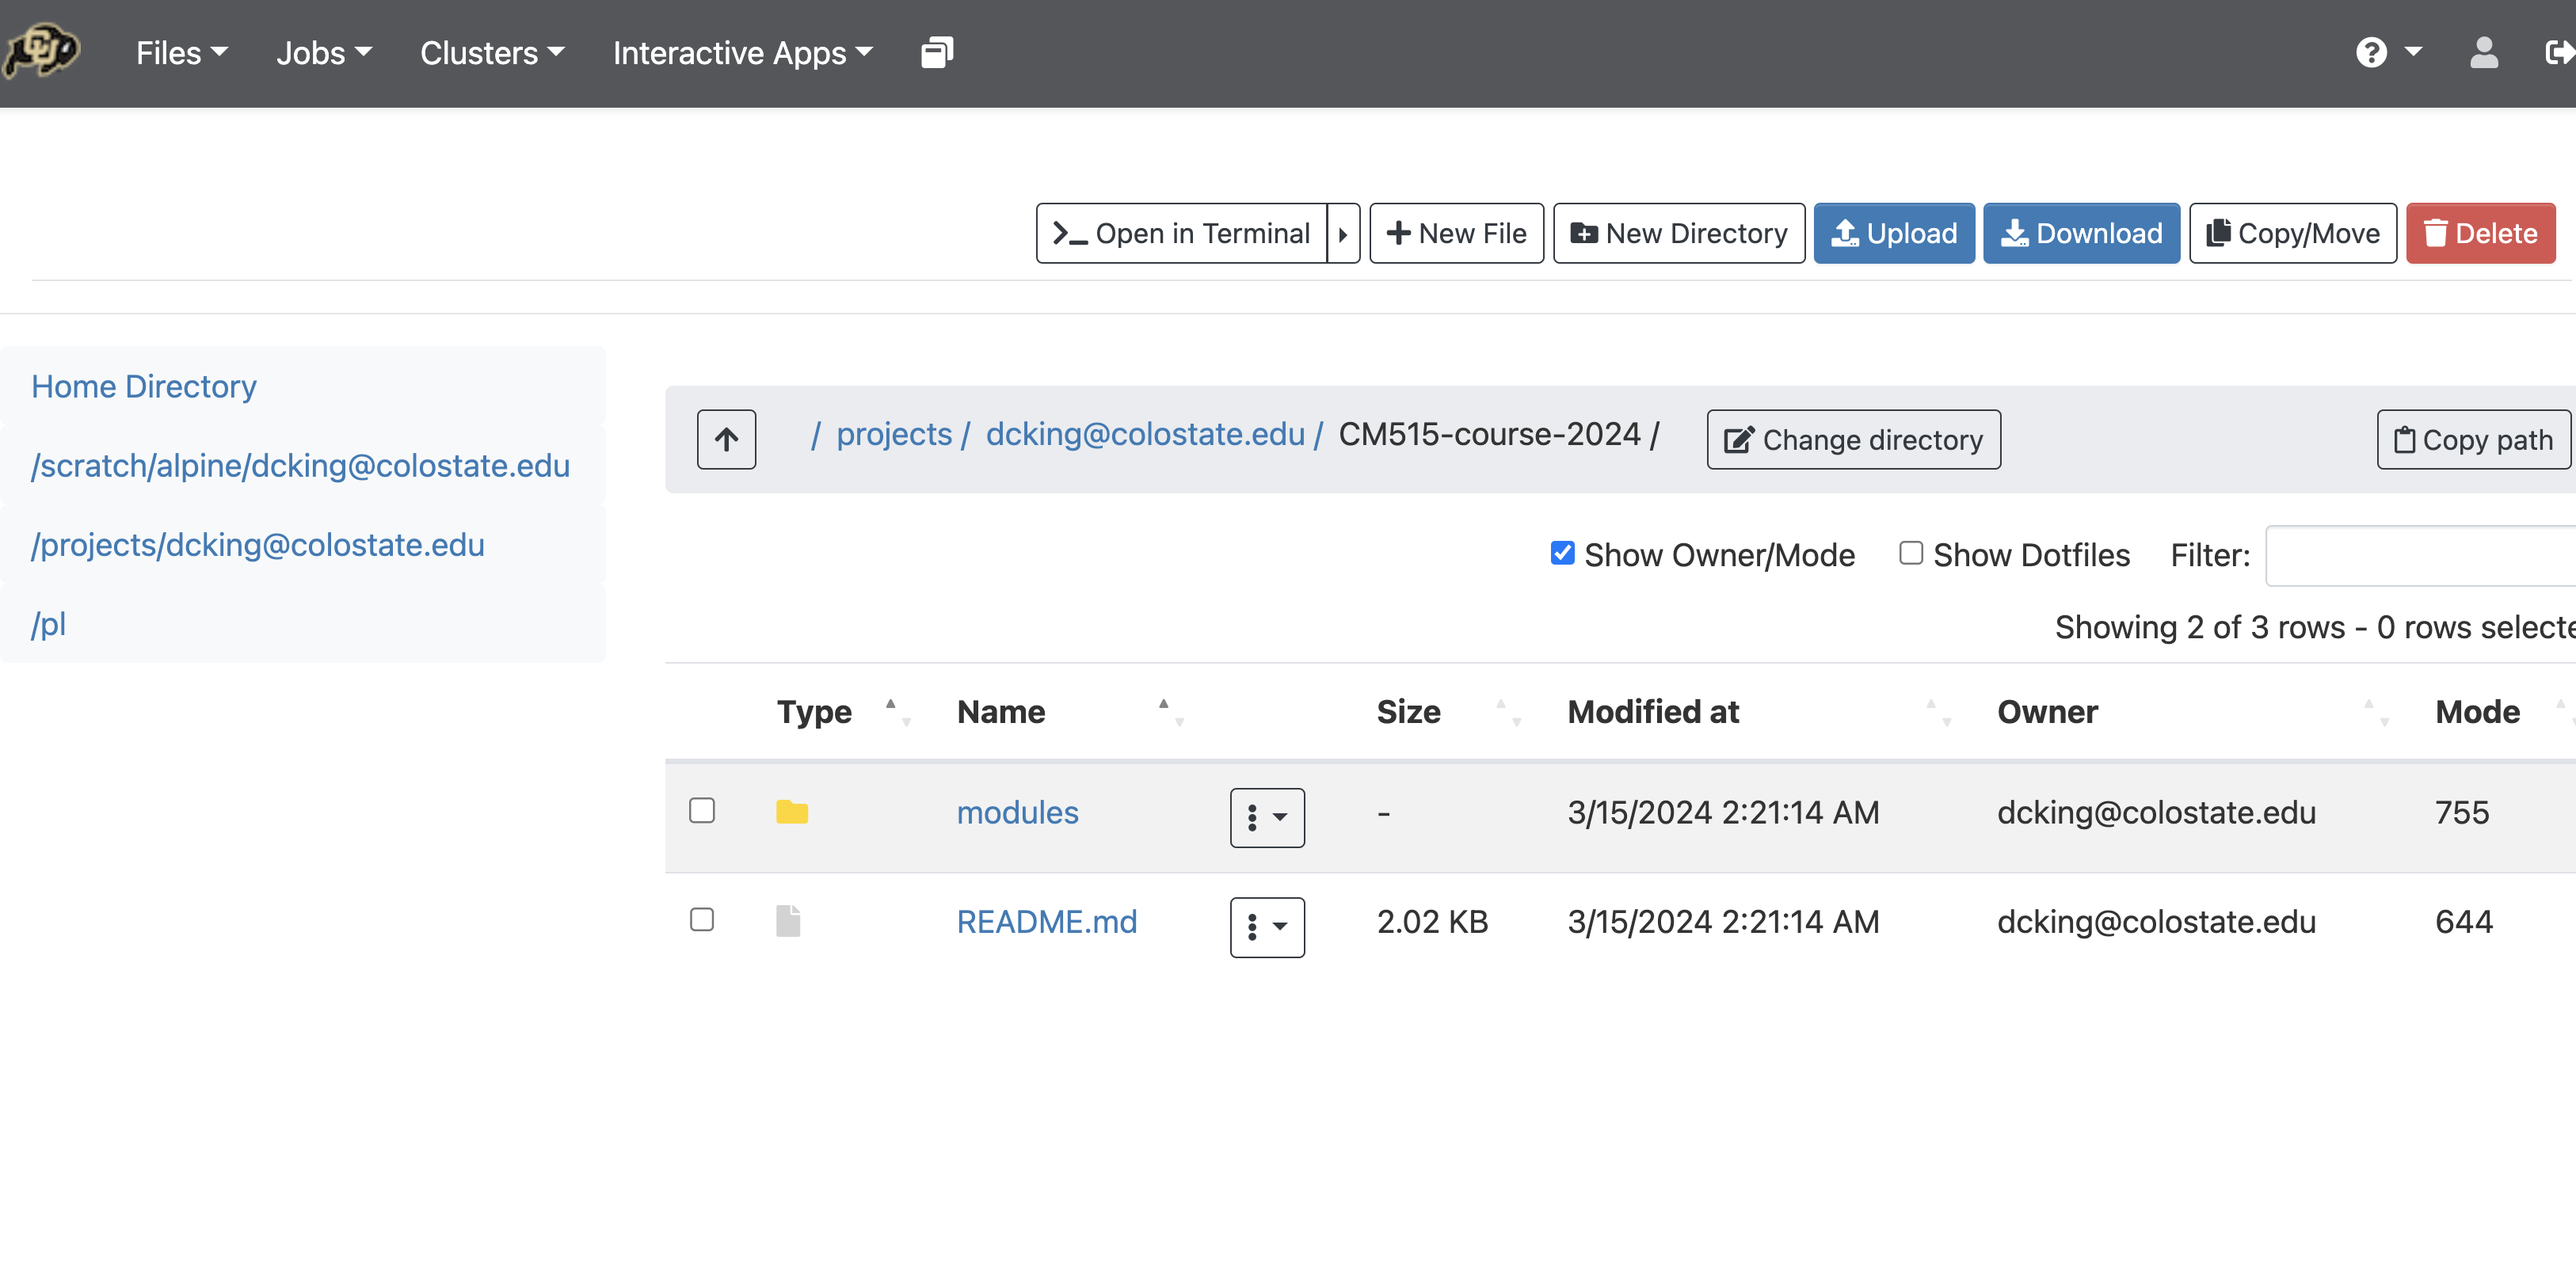
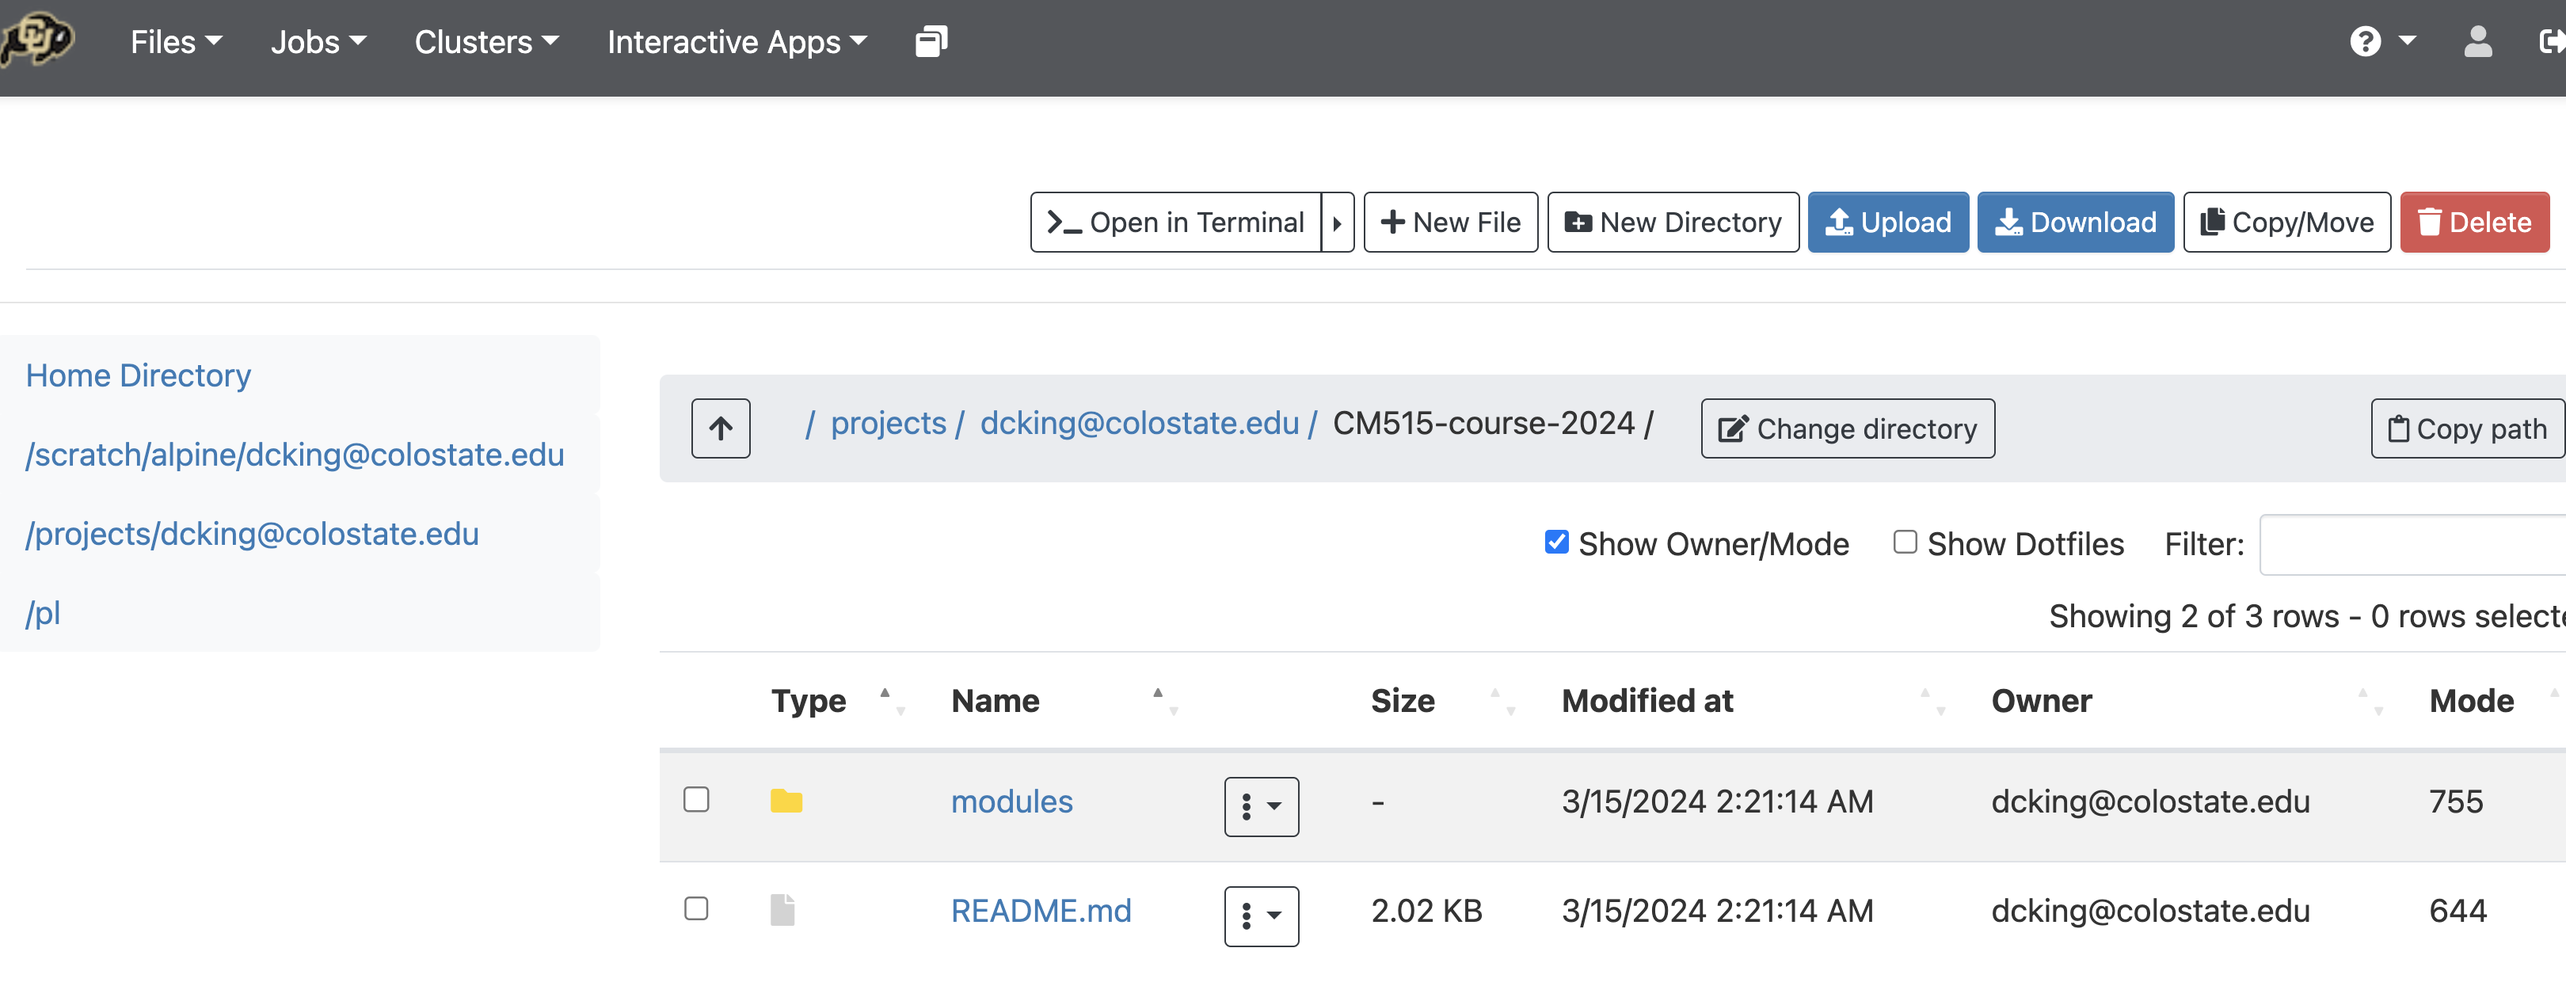
Added jupyterlab screenshot to README

diff --git a/modules/09_Deeptools/README.md b/modules/09_Deeptools/README.md
@@ -160,16 +160,27 @@ Using the *Files* pull down menu, go to your /projects directory as below:
 
 <figure>
     <img src="setup/img/OnDemand-Files.png" width="461" height="198">
-    <figcaption>Screen image caught mid-file navigation</figcaption>
+    <figcaption>Screen image caught mid-file navigation</figcaption>  
 </figure>
-
+<br>
 <figure>
-    <img src="setup/img/ondemand-repo-dirview.png" width="800" height="400">
-    <figcaption>You arrive at the repo</figcaption>
+    <img src="setup/img/ondemand-repo-dirview.png" width="800" height="311">
+    <figcaption>File browser showing <i>/projects/dcking@colostate.edu/CM515-course-2024</i></figcaption>
 </figure>
-
+<br>
 <figure>
     <img src="setup/img/repo-09Deeptools-hover-setup.png" width="833" height="300">
-    <figcaption>/projects/dcking@colostate.edu/CM515-course-2024/modules/09_Deeptools/ hovering on <b>setup</b>
+    <figcaption>File browser showing <i>/projects/dcking@colostate.edu/CM515-course-2024/modules/09_Deeptools</i> hovering on <b><i>setup</i></b>
     </figcaption>
 </figure>
+
+### Time to run JupyterLab in a job
+
+Jupyterlab is like RStudio- it is an integrated environment with many different tools, especially the ability to run Jupyter notebooks, which are in turn like RMarkdown. They are documents that can run embedded code.
+
+#### screenshot Interactive Apps -> Servers -> Jupyter Session (Presets)
+
+
+#### screenshot Jupyter launch page
+
+<img src="setup/img/JupyterSessionLaunchScreen.png">
